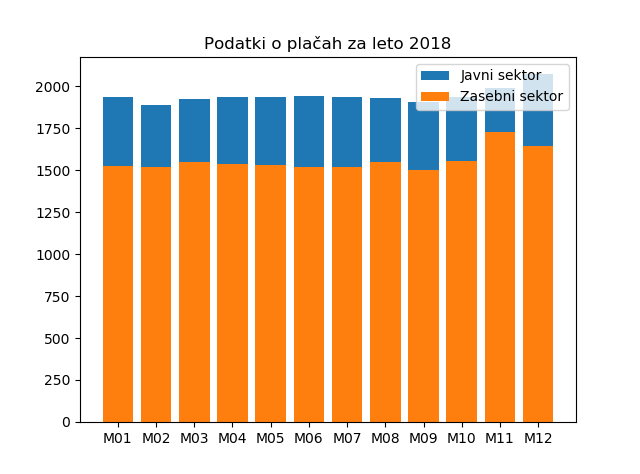
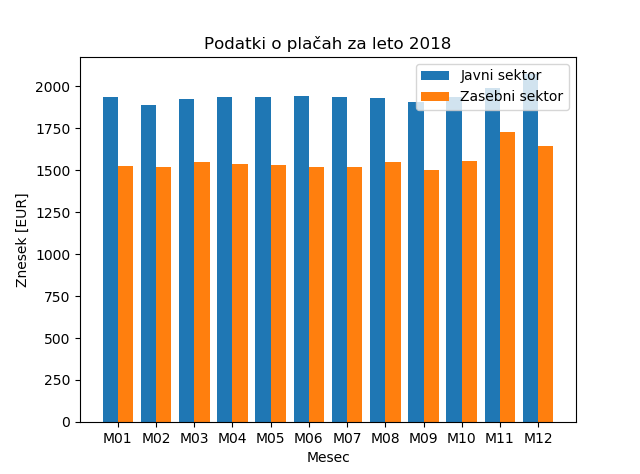
Popravki in dopolnitve

diff --git a/P14_vizualizacija.tex b/P14_vizualizacija.tex
@@ -324,12 +324,26 @@ Prikazuje ga slika \ref{img:plt6}.
     \label{img:plt6}
 \end{figure}
 Oznake na osi $x$ so zopet moteče. Grafu bi lahko dodali naslov, da gre za leto 2018, na osi $x$ pa prikazali samo informacijo o mesecu. Tako bo postal graf bolj pregleden. Najprej iz oznak odstranimo podatek o letu. To lahko naredimo že med filtiranjem podatkov za leto 2018, kjer namesto stavkov \texttt{MJ\_2018.append(mj)} in \texttt{MZ\_2018.append(mz)} uporabimo stavka \texttt{MJ\_2018.append(mj[-3:])} in \texttt{MZ\_2018.append(mz[-3:])}. Naslov grafa dodamo s sledečo vrstico:
-\begin{lstlisting}[language=Python, showstringspaces=false]
+\begin{lstlisting}[language=Python]
 plt.title('Podatki o plačah za leto 2018')
 \end{lstlisting}
 Dodajmo še legendo:
 \begin{lstlisting}[language=Python, showstringspaces=false]
 plt.legend(['Javni sektor', 'Zasebni sektor'])
+\end{lstlisting}
+
+Kar nas še moti je to, da sta grafa \emph{naložena} drug na drugega. Če bi npr. najprej izrisali zasebni sektor, bi ga javni sektor prekril. Bolj pravilno bi bilo, če bi grafa narisala drug ob drugim. Kako lahko to naredimo? Tako, da en graf zamaknemo v levo, drugega pa v desno. Popravili bomo tudi širino stolpcev, da bodo malo ožji. Najprej določimo lokacije stolpcev:
+\begin{lstlisting}[language=Python]
+loc1 = list(range(len(ZJ_2018)))
+loc2 = list(range(len(ZZ_2018)))
+for i in range(len(loc1)):
+    loc1[i] -= 0.2
+    loc2[i] += 0.2
+\end{lstlisting}
+Zdaj te lokacije upoštevajmo pri izrisu, poleg tega pa preko izbirnega argumenta \texttt{width} nastavimo še širino stolpcev:
+\begin{lstlisting}[language=Python]
+plt.bar(loc1, ZJ_2018, width = 0.4)
+plt.bar(loc2, ZZ_2018, width = 0.4)
 \end{lstlisting}
 
 Celoten program je zdaj sledeč:
@@ -361,14 +375,20 @@ for mz, zz in zip(MZ, ZZ):
         MZ_2018.append(mz[-3:]) # brez leta
         ZZ_2018.append(zz)
 
+loc1 = list(range(len(ZJ_2018)))
+loc2 = list(range(len(ZZ_2018)))
+for i in range(len(loc1)):
+    loc1[i] -= 0.2
+    loc2[i] += 0.2
 
-plt.bar(range(len(ZJ_2018)), ZJ_2018)
-plt.bar(range(len(ZZ_2018)), ZZ_2018)
-
+plt.bar(loc1, ZJ_2018, width = 0.4)
+plt.bar(loc2, ZZ_2018, width = 0.4)
 plt.xticks(range(len(MJ_2018)), MJ_2018)
 
 plt.title('Podatki o plačah za leto 2018')
 plt.legend(['Javni sektor', 'Zasebni sektor'])
+plt.xlabel("Mesec")
+plt.ylabel("Znesek [EUR]")
 plt.show()
 \end{lstlisting}
 Rezultat izvedbe programa prikazuje slika \ref{img:plt7}.

diff --git a/P16_pandas.tex b/P16_pandas.tex
@@ -272,6 +272,18 @@ Tako dobljen graf prikazuje slika \ref{img:plt_pandas2}.
 \end{figure}
 Graf bi lahko na enostaven način spremenili v kakšen drug tip, tako da bi nastavili izbirni argument \texttt{kind} na kakšno drugo vrednost, npr. \texttt{'bar'} za stolpčni diagram ali pa \texttt{'box'} za izris s kvartili.
 
+Graf bi lahko narisali tudi tako, da bi podatke iz strukture \texttt{dataframe} pretvorili npr. v strukturo \texttt{ndarray} z uporabo metode \texttt{values} (metoda \texttt{values} zavrže imena stolpcev in kot matriko tipa \texttt{ndarray} vrne vsebino tabele). Do matrike bruto in neto plač javnega in zasebnega sektorja, bi lahko npr. prišli takole:
+\begin{lstlisting}[language=python]
+>>> J = df_javni[['bruto','neto']].values
+>>> Z = df_zasebni[['bruto','neto']].values
+\end{lstlisting}
+Naenkrat lahko narišemo več grafov tudi tako, da funkciji \texttt{plot} (ne metodi) podamo kar matriko. Funkcija bo za vsak stolpec matrike izrisala svoj graf.
+\begin{lstlisting}[language=python]
+>>> plt.plot(J)
+>>> plt.plot(Z)
+>>> plt.show()
+\end{lstlisting}
+
 \section{Izvoz podatkov}
 
 Podatke lahko iz tabel \texttt{dataframe} tudi enostavno izvozimo. Če bi npr. želeli podatke za javni sektor izvoziti v datoteko CSV, bi to lahko naredili z uporabo metode \texttt{to\_csv}.
@@ -280,7 +292,7 @@ df_javni.to_csv('place_javni.csv', index=False)
 \end{lstlisting}
 Opcijski argument \texttt{index} smo nastavili na vrednost \texttt{False}, saj ponavadi stolpca z indeksi ne želimo izvažati (včasih pa). 
 
-Podatke bi lahko izvozili tudi v Excelovo datoteko, in sicer z metodo \texttt{to\_excel}, ki deluje zelo podobno kot metoda za izvoz z datoteke CSV:
+Podatke bi lahko izvozili tudi v Excelovo datoteko, in sicer z metodo \texttt{to\_excel}, ki deluje zelo podobno kot metoda za izvoz v datoteke CSV:
 \begin{lstlisting}[language=python]
 df_javni.to_excel('place_javni.xlsx', index=False)
 \end{lstlisting}

diff --git a/P15_numpy.tex b/P15_numpy.tex
@@ -163,7 +163,7 @@ array([[1, 2, 3],
        [4, 5, 6],
        [7, 8, 9]])
 \end{lstlisting}
-Na prvi pogled nič kaj presenetljivega, ampak če smo lahko na strukturo \texttt{ndarray}, ki smo jo dobili iz navadnega seznama gledali na vektor, lahko na strukturo \texttt{ndarray}, ki jo dobimo iz ugnezdenih seznamov, gledamo na matriko oziroma na dvodimenzionalno strukturo, ki ima podatke zapisane v vrsticah (dimenzija 0) in stolpcih (dimenzija 1). Indeksiramo jo lahko tako kot običajne ugnezdene sezname. Do ugnezdenega podseznama na npr. indeksu 1, lahko pridemo takole:
+Na prvi pogled nič kaj presenetljivega, ampak če smo si lahko strukturo \texttt{ndarray}, ki smo jo dobili iz navadnega seznama, interpretirali kot vektor, lahko na strukturo \texttt{ndarray}, ki jo dobimo iz ugnezdenih seznamov, gledamo kot na matriko oziroma na dvodimenzionalno strukturo, ki ima podatke zapisane v vrsticah (dimenzija 0) in stolpcih (dimenzija 1). Indeksiramo jo lahko tako kot običajne ugnezdene sezname. Do ugnezdenega podseznama na npr. indeksu 1, lahko pridemo takole:
 \begin{lstlisting}[language=Python]
 >>> A[1]
 array([4, 5, 6])
